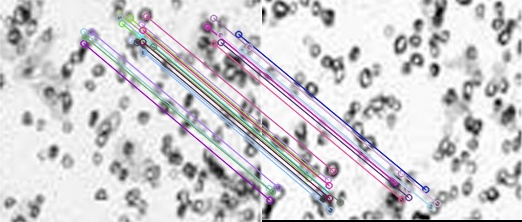
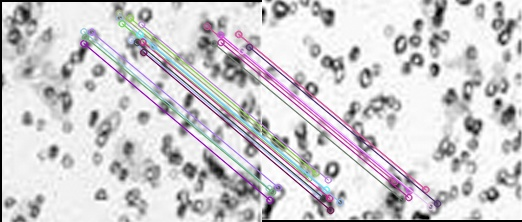
added concatenation to sift, created figure1 images

Changed region(s): [[0.2452, 0.0541, 0.6743, 0.973], [0.3678, 0.0541, 0.8582, 0.9459], [0.0, 0.0, 0.5211, 1.0]]

diff --git a/sift.py b/sift.py
@@ -68,6 +68,12 @@ https://www.youtube.com/watch?v=9mQznoHk4mU&list=PL6Yc5OUgcoTlQuAdhtnByty15Ea9-c
 https://www.youtube.com/watch?v=ND5vGDNvN0s&list=PL6Yc5OUgcoTlQuAdhtnByty15Ea9-cQly&index=3
 https://www.youtube.com/watch?v=ADuHe4JNLXs&list=PL6Yc5OUgcoTlQuAdhtnByty15Ea9-cQly&index=4
 """
+def hconcat_resize_min(im_list, interpolation=cv.INTER_CUBIC):
+    w_min = min(im.shape[1] for im in im_list)
+    im_list_resize = [cv.resize(im, (w_min, int(im.shape[0] * w_min / im.shape[1])), interpolation=interpolation)
+        for im in im_list]
+    return cv.hconcat(im_list_resize)
+
 class SimilarityDetector:
 
     def __init__(self):
@@ -88,8 +94,9 @@ class SimilarityDetector:
                 good_matches.append(m)
         return good_matches
 
-    def findSimilarities(self,a_imgPath1, a_imgPath2, a_outPathMatches,a_outPathOriginal,
-                         a_outPathNew, a_outPathBoxes, a_minHessian = 200, a_ratioThresh = 0.6):
+
+
+    def findSimilarities(self,a_imgPath1, a_imgPath2, a_outPathMatches, a_outPathBoxes, a_minHessian = 200, a_ratioThresh = 0.6):
         """
         Function using feature detection to find similarities between images
         :param a_imgPath1: path to first image
@@ -131,35 +138,34 @@ class SimilarityDetector:
         # matchTrain = cv.drawKeypoints(img2,kp2Matched,None,(255,0,0),4)
 
         # Draw boxes around key matches
-        bd = BoxDrawer(kp1Matched,30,img1,(51,255,255),2)
+        bd = BoxDrawer(kp1Matched,30,img1,(0,255,0),5)
         img1 = bd.img
-        bd = BoxDrawer(kp2Matched,30,img2,(51,255,255),2)
+        bd = BoxDrawer(kp2Matched,30,img2,(0,255,0),5)
         img2 = bd.img
 
-        combinedimg = np.empty((max(img1.shape[0], img2.shape[0]), img1.shape[1]+img2.shape[1], 3), dtype=np.uint8)
+        #concatenate our 2 images together
+        combinedimg = hconcat_resize_min([img1,img2]) #make sure that images have the same dimensions
 
         # write out images
         cv.imwrite(a_outPathMatches, img_matches)
-        cv.imwrite(a_outPathOriginal,img1)
-        cv.imwrite(a_outPathNew, img2)
         cv.imwrite(a_outPathBoxes, combinedimg)
+
+    
 
 
 if __name__ == "__main__":
 
     # # Paths for images to be compared
-    imgPath1 = "images/test_images/figure1/cells2.1.png"
-    imgPath2 = "images/test_images/figure1/cells2.2.png"
+    imgPath1 = "images/test_images/figure1/cells_19_3.png"
+    imgPath2 = "images/test_images/figure1/cells_19_4.png"
     
     # outputPaths
-    outPathMatches = 'images/ike_ans/sift2.1map.jpg'
-    outPathOriginal = 'images/ike_ans/sift2.2orig.jpg'
-    outPathNew = 'images/ike_ans/sift2.2new.jpg'
-    outPathBoxes = 'images/ike_ans/sift2.2boxes.jpg'
+    outPathMatches = 'images/ike_ans/sift19.2map.jpg'
+    outPathBoxes = 'images/ike_ans/sift19.2boxes.jpg'
 
     # Create instance of class
     simDet = SimilarityDetector()
 
     # Show similarities
-    simDet.findSimilarities(imgPath1, imgPath2,outPathMatches,outPathOriginal,outPathNew,outPathBoxes)
+    simDet.findSimilarities(imgPath1, imgPath2,outPathMatches,outPathBoxes)
 
